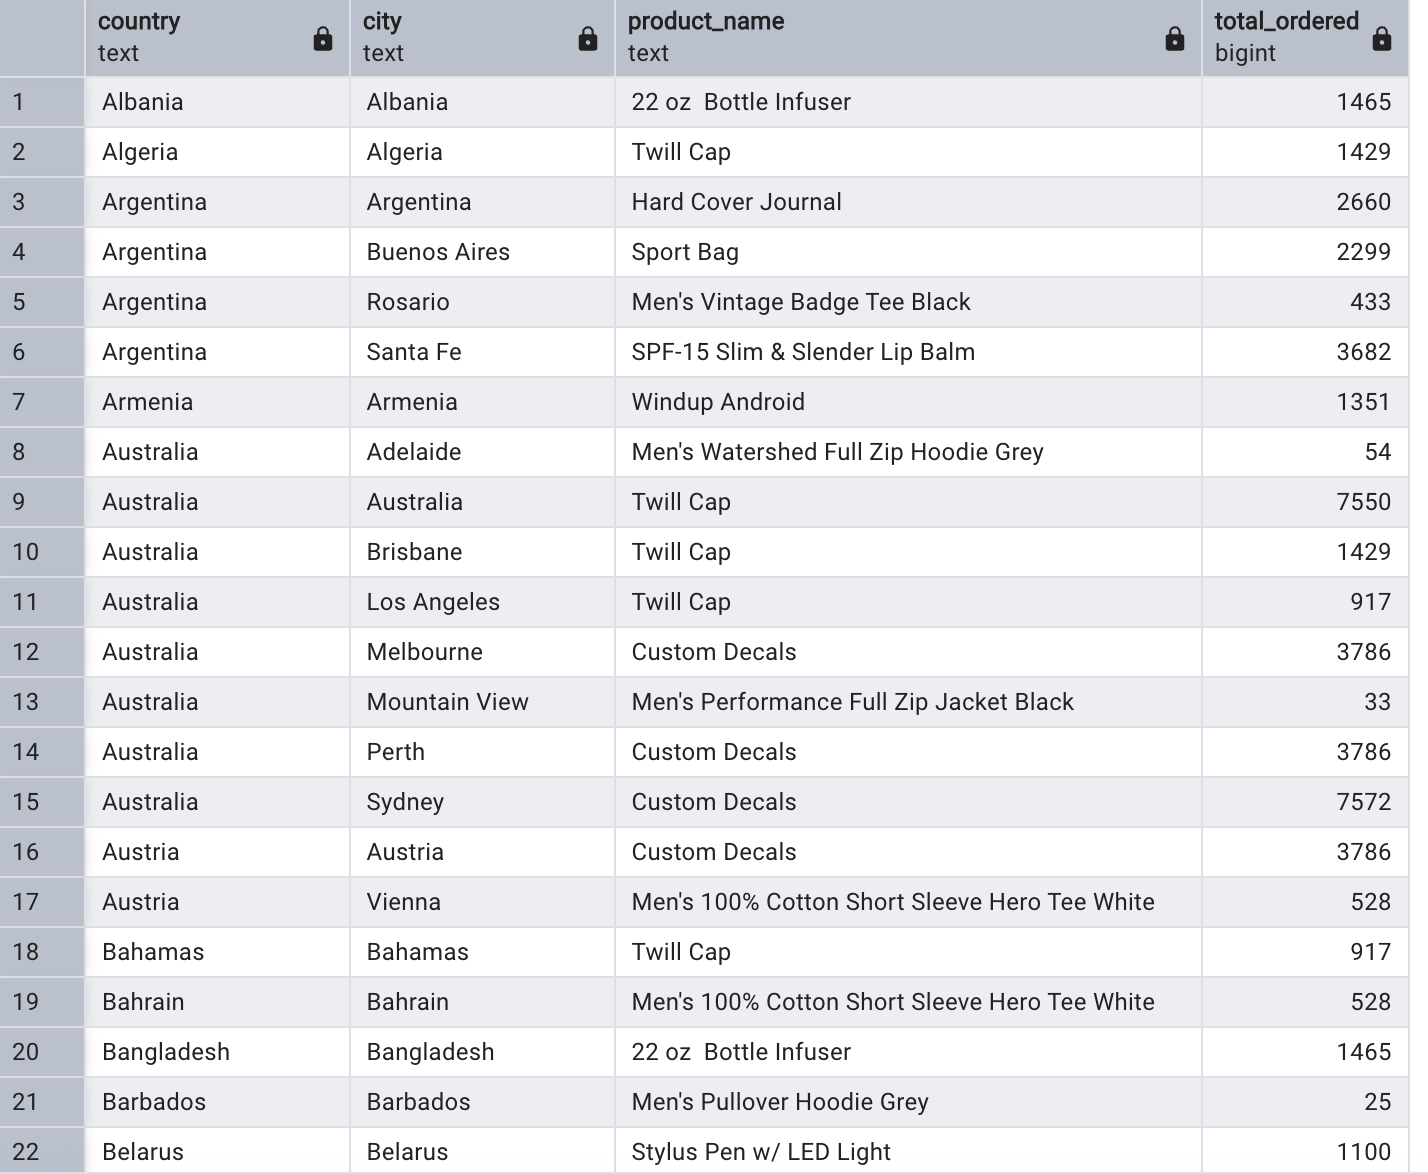
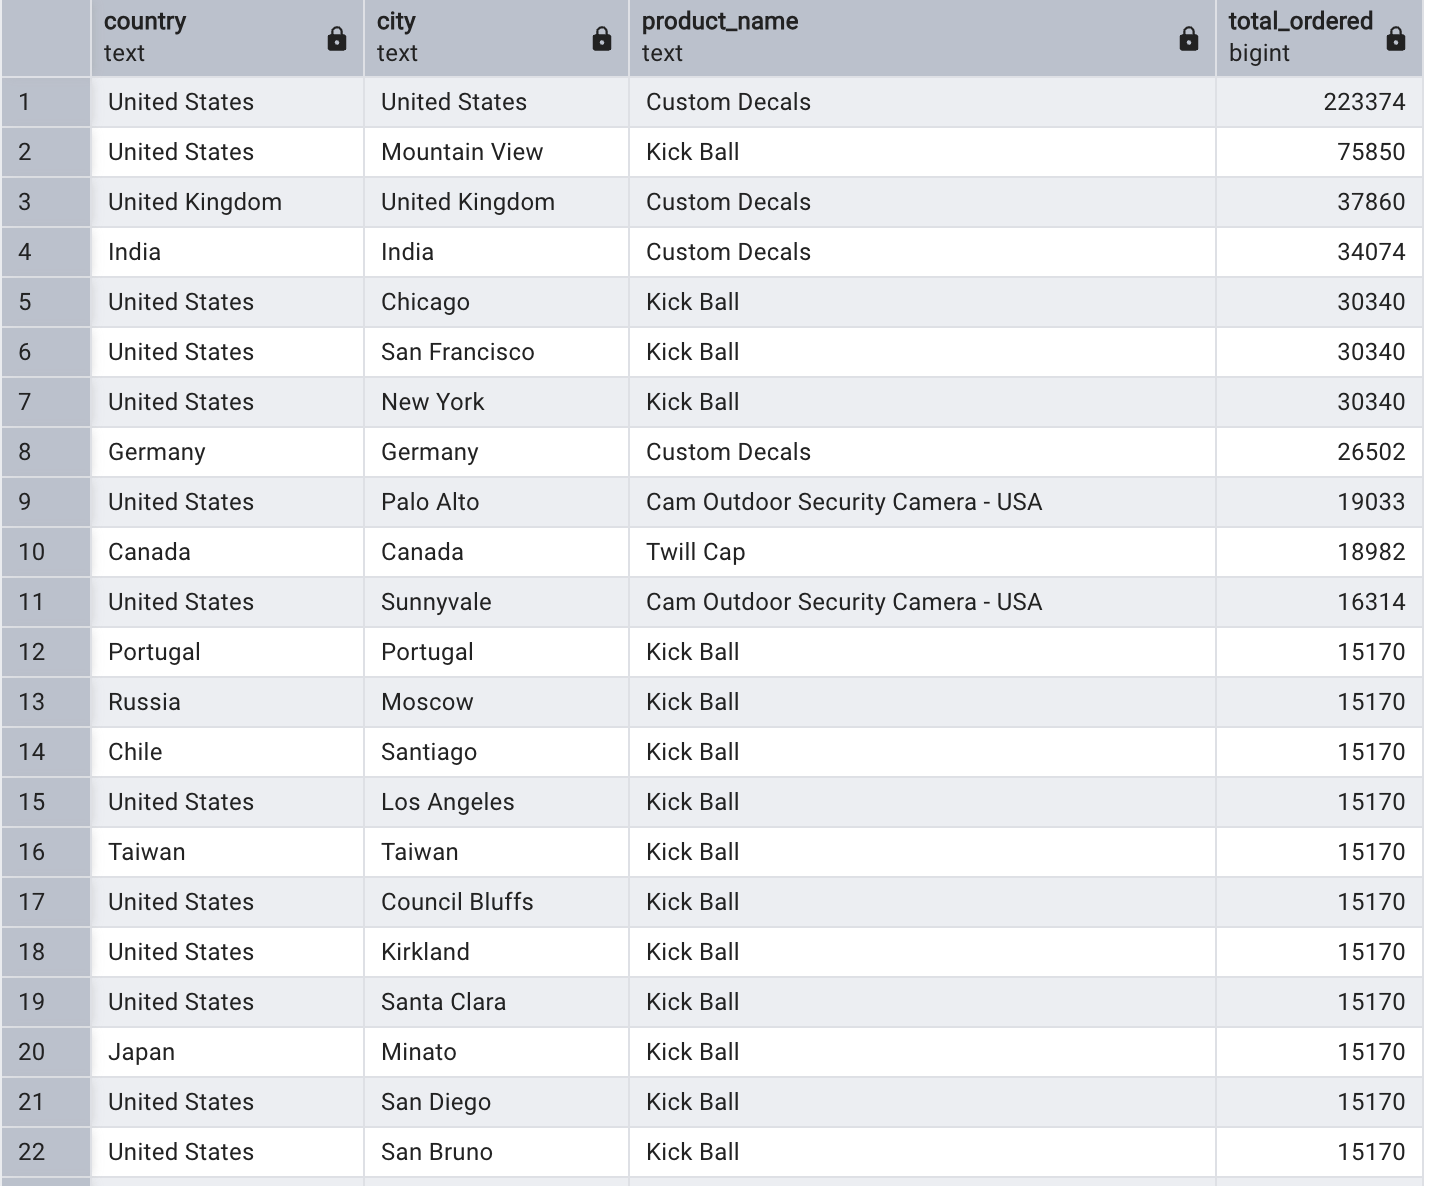
updated last set of files for final submission

diff --git a/starting_with_questions.md b/starting_with_questions.md
@@ -143,7 +143,7 @@ FROM	products AS p
 	JOIN all_sessions AS all_s
 	ON p.sku = all_s.product_sku
 GROUP BY all_s.country, all_s.city, p.product_name
-		     ),
+					),
 RankedBy AS (
 SELECT	country,
 	city,
@@ -152,15 +152,15 @@ SELECT	country,
 	RANK () OVER (PARTITION BY country, city ORDER BY total_ordered DESC)
 FROM	CleanedData
 WHERE	country != '(not set)' 
-	AND city != '(not set)'
-	    )
+		AND city != '(not set)'
+			)
 SELECT	country,
 	city,
 	product_name,
 	total_ordered
 FROM	RankedBy
 WHERE	rank = 1
-ORDER BY country, city;
+ORDER BY total_ordered DESC;
 ```
 
 Answer:
